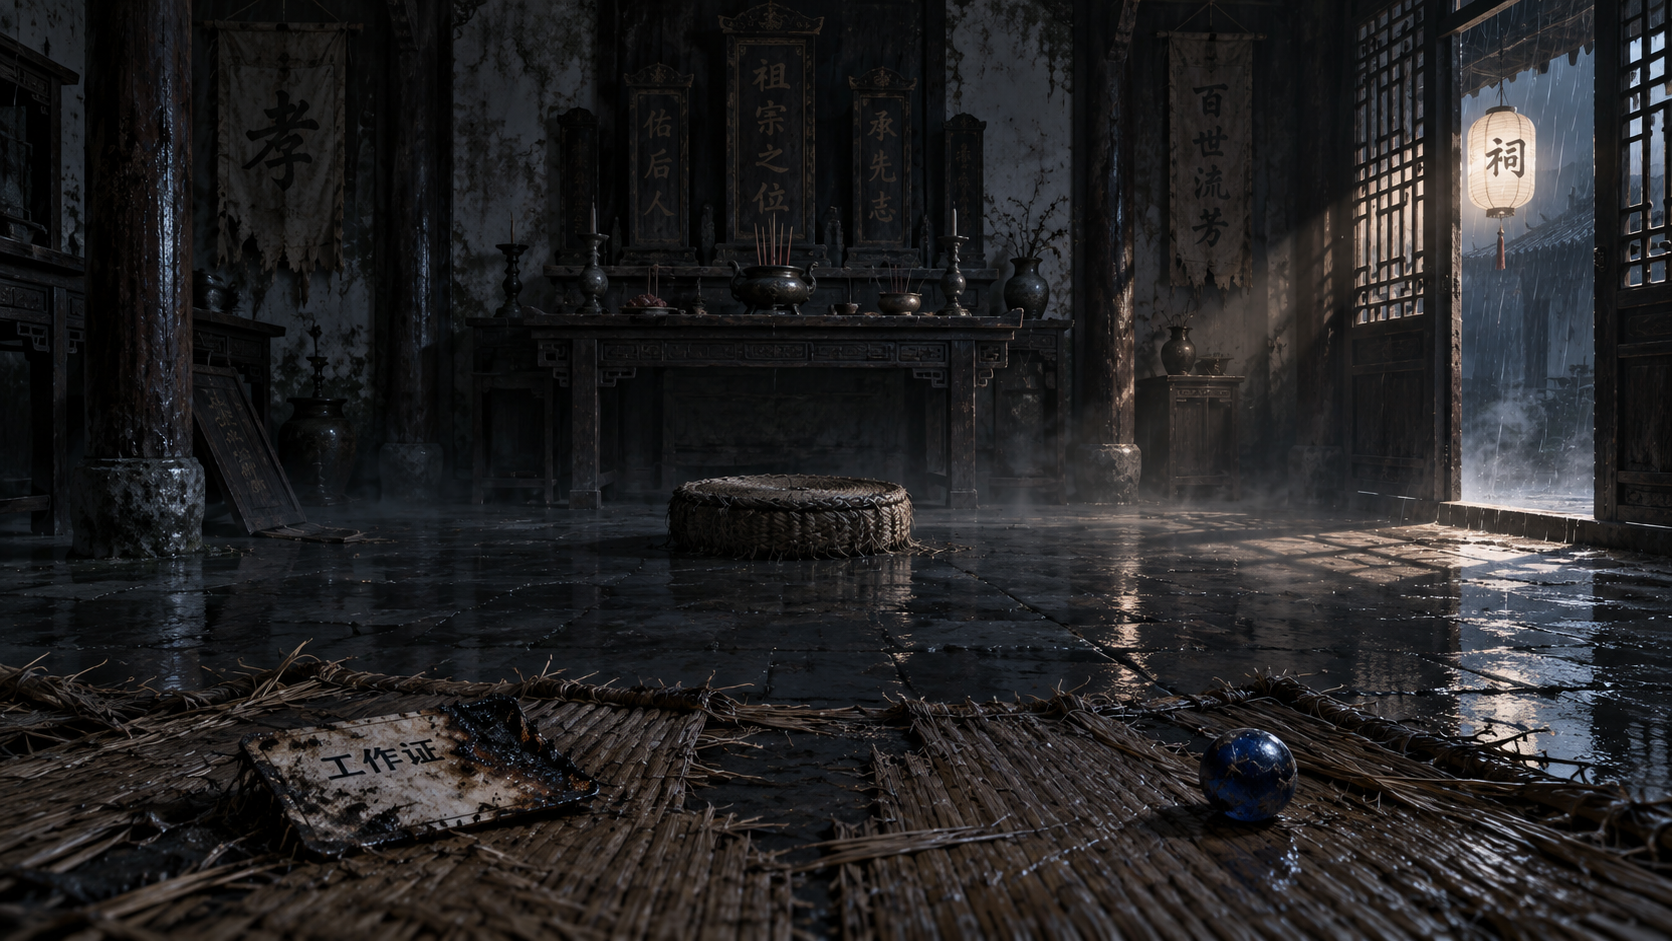
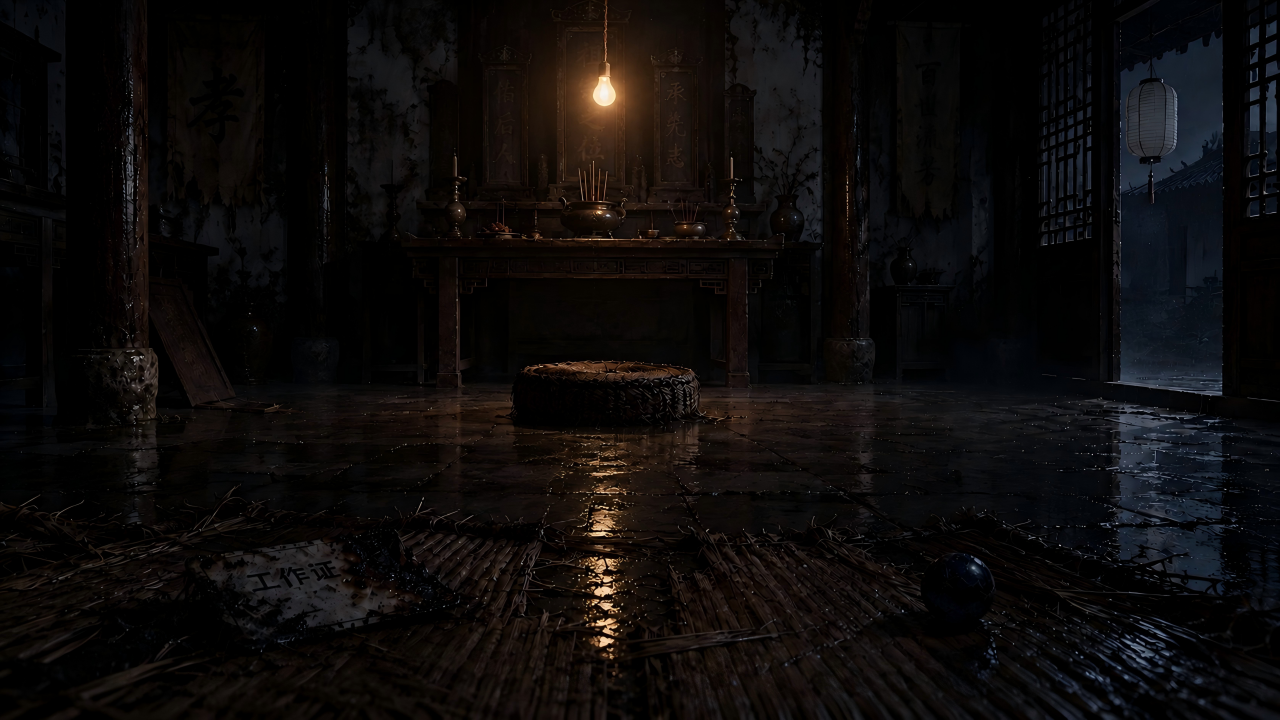
祠堂与结局场景图变更，为视频插入作场景图方面的衔接

diff --git a/assets/js/exploration/data/scene-assets.js b/assets/js/exploration/data/scene-assets.js
@@ -2,7 +2,21 @@ import {v3SceneArtFor} from "./v3-scene-assets.js";
 
 const SCENE_ASSETS = Object.freeze({
   shrine: Object.freeze({
-    default: new URL("../../../images/exploration/scenes/shrine.png", import.meta.url).href
+    // 杨梦的视频衔接状态：A（默认）→ B → C → A。
+    // 恢复供电时灯泡亮起、白灯同时熄灭，因此复用 bulb-only。
+    default: new URL("../../../images/exploration/scenes/shrine.png", import.meta.url).href,
+    "bulb-only": new URL(
+      "../../../images/exploration/scenes/shrine.png",
+      import.meta.url
+    ).href,
+    "both-lights": new URL(
+      "../../../images/exploration/scenes/shrine-both-lights.png",
+      import.meta.url
+    ).href,
+    "white-lamp-only": new URL(
+      "../../../images/exploration/scenes/shrine-white-lamp-only.png",
+      import.meta.url
+    ).href
   }),
   village: Object.freeze({
     default: new URL("../../../images/exploration/scenes/village.png", import.meta.url).href

diff --git a/assets/js/exploration/data/v3-scene-assets.js b/assets/js/exploration/data/v3-scene-assets.js
@@ -170,8 +170,8 @@ export const V3_SCENE_ART = Object.freeze([
     ["ending-accomplice", "ending-accomplice.jpg"],
     ["ending-defeated", "ending-defeated.jpg"],
     ["ending-erasure", "ending-erasure.jpg"],
-    ["ending-curated-truth", "ending-curated-truth.jpg"],
-    ["ending-full-account", "ending-full-account.jpg"]
+    ["ending-curated-truth", "ending-curated-truth.png"],
+    ["ending-full-account", "ending-full-account.png"]
   ].map(([endingId, filename]) => record({
     assetId: endingId,
     sceneId: "village-exit",
